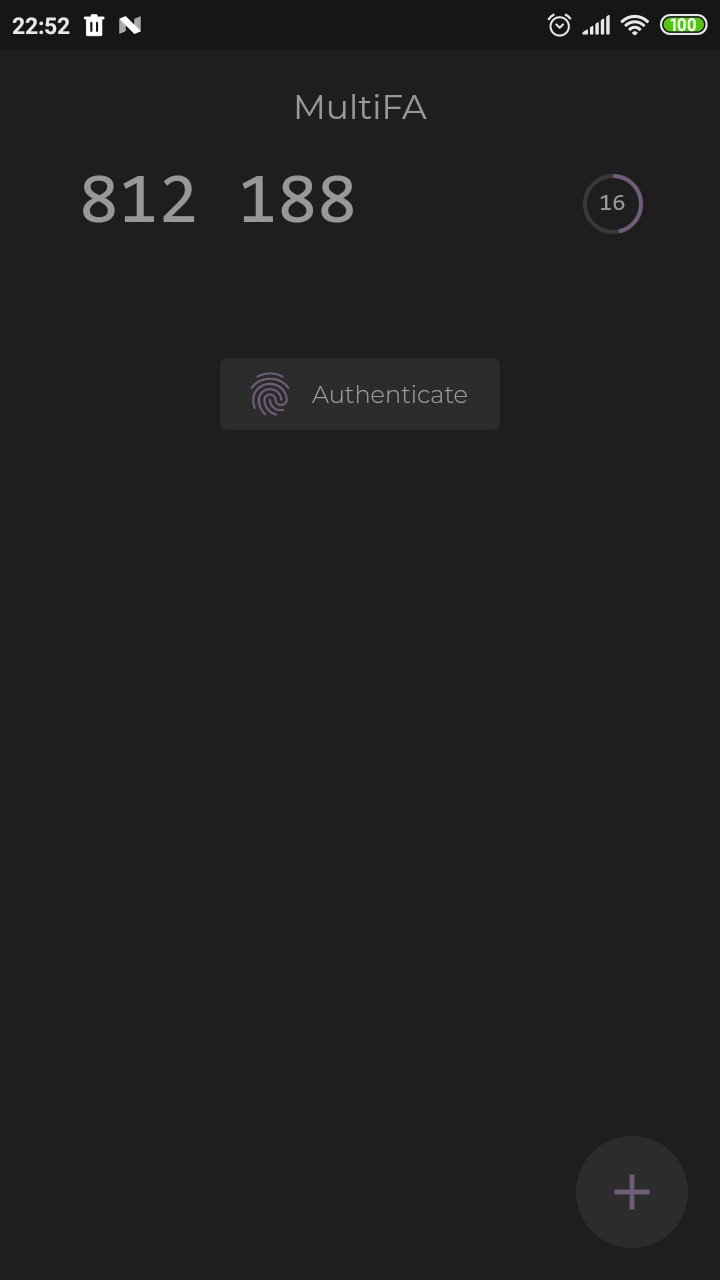
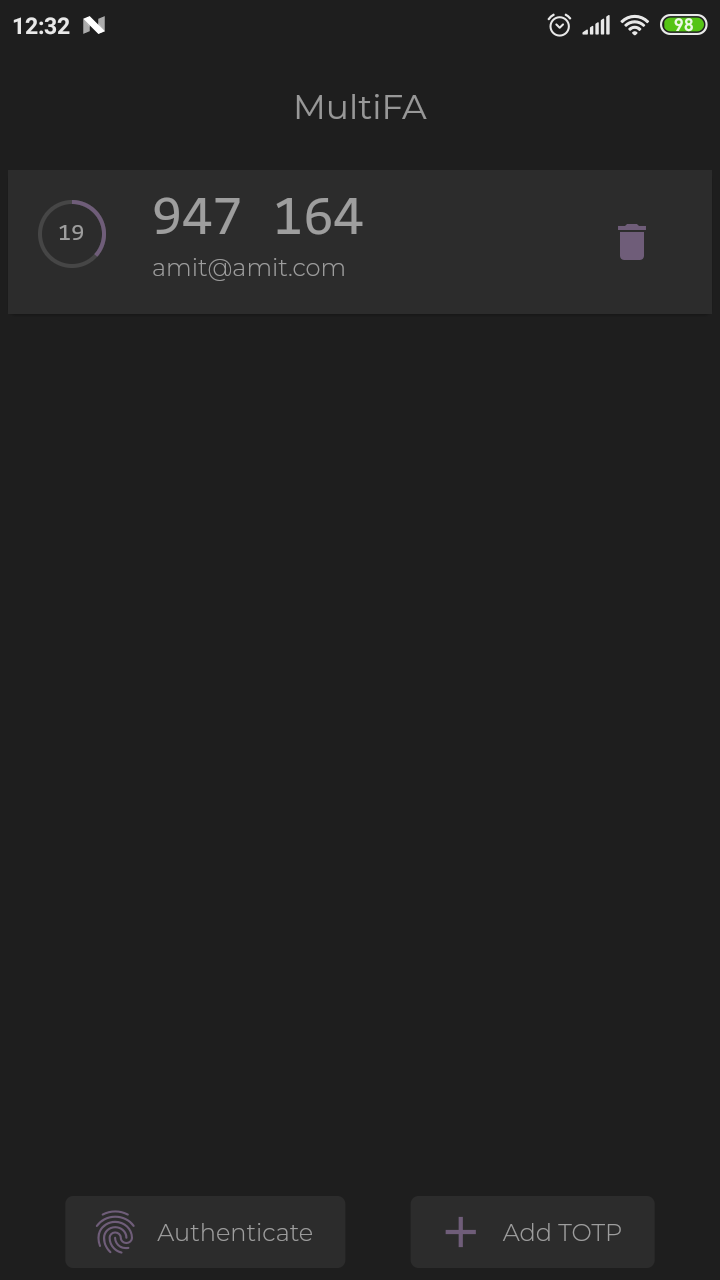
app layout changed

diff --git a/app/lib/widget/totp.dart b/app/lib/widget/totp.dart
@@ -1,0 +1,81 @@
+import 'dart:async';
+import 'package:flutter/material.dart';
+
+import 'package:app/api/totp_api.dart';
+import 'package:app/style.dart';
+
+class TotpWidget extends StatefulWidget 
+{
+	const TotpWidget({ Key? key }) : super(key: key);
+
+	@override
+	_TotpWidgetState createState() => _TotpWidgetState();
+}
+
+class _TotpWidgetState extends State<TotpWidget> 
+{
+	// TODO: stop timer when not needed and initialize timer and totp and stuff when needed
+	Timer? timer;
+	int unixTime = 0;
+	String? totp;
+	int? timeRemaining;
+
+	_TotpWidgetState()
+		:super()
+	{
+		unixTime      = DateTime.now().millisecondsSinceEpoch ~/ 1000;
+		totp          = TOTP.generateTOTP(unixTime);
+		timeRemaining = 30 - (unixTime % 30);
+	}
+
+	@override
+	Widget build(BuildContext context) 
+	{
+		timer = Timer.periodic(const Duration(seconds: 1), (_)
+		{
+			setState(()
+			{
+				unixTime = DateTime.now().millisecondsSinceEpoch ~/ 1000;
+				if ((unixTime % 30) == 0)
+				{
+					totp = TOTP.generateTOTP(unixTime);
+				}
+				timeRemaining = 30 - (unixTime % 30);
+			});
+		});
+
+		return Card(
+			child: ListTile(
+				title   : Text(totp!.substring(0, 3) + ' ' + totp!.substring(3), style: Theme.of(context).textTheme.headline2), 
+				subtitle: Text("amit@amit.com", style: Theme.of(context).textTheme.bodyText1,),
+				leading : SizedBox(
+					width  : 32,
+					height : 32,
+					child  : Stack(
+						fit  : StackFit.expand,
+						children: [
+							Center(child: Text('$timeRemaining', style: Theme.of(context).textTheme.bodyText2)),
+							CircularProgressIndicator(
+								value          : 1 - (timeRemaining! / 30),
+								backgroundColor: Colors.white12,
+								color          : appColor,
+								strokeWidth    : 2,
+							)
+						],
+					),
+				),
+				trailing: IconButton(
+					icon     : const Icon(Icons.delete, color: appColor),
+					tooltip  : 'Delete this TOTP.',
+					onPressed: () {},
+				),
+				tileColor: buttonColor,
+			)
+		);
+	}
+	
+	void stopTimer()
+	{
+		setState(() => timer?.cancel());
+	}
+}

diff --git a/app/lib/style.dart b/app/lib/style.dart
@@ -49,9 +49,9 @@ const MaterialColor buttonColor = MaterialColor(0xFF2C2C2C, _buttonColor); // li
 
 
 // Fonts
-const double largeTextStyle  = 42.0;
-const double mediumTextStyle = 20.0;
-const double bodyTextStyle   = 14.0;
+const double largeTextSize  = 32.0;
+const double mediumTextSize = 20.0;
+const double bodyTextSize   = 14.0;
 
 const String defaultFont = 'Montserrat';
 const String consolas    = 'Consolas';
@@ -59,34 +59,34 @@ const String consolas    = 'Consolas';
 const appBarTextStyle = TextStyle(
 	fontFamily: defaultFont,
 	fontWeight: FontWeight.w400,
-	fontSize  : mediumTextStyle,
+	fontSize  : mediumTextSize,
 	color     : textColor,
 );
 
 const titleTextStyle = TextStyle(
 	fontFamily: defaultFont,
 	fontWeight: FontWeight.w500,
-	fontSize  : largeTextStyle,
+	fontSize  : largeTextSize,
 	color     : textColor,
 );
 
 const bodyText1Style = TextStyle(
 	fontFamily: defaultFont,
 	fontWeight: FontWeight.w200,
-	fontSize  : bodyTextStyle,
+	fontSize  : bodyTextSize,
 	color     : textColor,
 );
 
 const telText1Style = TextStyle(
 	fontFamily: consolas,
 	fontWeight: FontWeight.w400,
-	fontSize  : largeTextStyle,
+	fontSize  : largeTextSize,
 	color     : textColor,
 );
 
 const telText2Style = TextStyle(
 	fontFamily: consolas,
 	fontWeight: FontWeight.w200,
-	fontSize  : bodyTextStyle,
+	fontSize  : bodyTextSize,
 	color     : textColor,
 );

diff --git a/app/lib/widget/home.dart b/app/lib/widget/home.dart
@@ -1,7 +1,7 @@
 import 'package:flutter/material.dart';
 
 import 'totp.dart';
-import 'scan_qr.dart';
+import 'scanqr.dart';
 import 'fingerprint.dart';
 
 class HomePage extends StatefulWidget 
@@ -20,17 +20,22 @@ class _HomePageState extends State<HomePage>
 	{
 		return Scaffold(
 			appBar: AppBar(title: Text(widget.title), centerTitle: true, elevation: 0),
-			body: Center(
+			body  : Center(
 				child: Column(
 					mainAxisAlignment: MainAxisAlignment.start,
 					children: const <Widget>[
-						TotpPage(),
-						SizedBox(height: 50),
-						FingerprintPage(),
+						TotpWidget(),
 					],
 				),
 			),
-			floatingActionButton: const ScanQRPage(), // Currently the QR code scanner doesnt do anything
+			//floatingActionButton: const ScanQRPage(), // Currently the QR code scanner doesnt do anything
+			bottomNavigationBar: Row(
+				mainAxisAlignment: MainAxisAlignment.spaceEvenly,
+				children: const <Widget> [ 
+					FingerprintWidget(), 
+					ScanQRPage()
+				]
+			),
 		);
 	}
 }

diff --git a/app/lib/main.dart b/app/lib/main.dart
@@ -1,7 +1,7 @@
 import 'package:flutter/material.dart';
 
 import 'package:app/style.dart';
-import 'package:app/pages/home.dart';
+import 'package:app/widget/home.dart';
 
 void main() => runApp(const App());
 
@@ -17,7 +17,7 @@ class App extends StatelessWidget
 			home: const HomePage(title: appTitle),
 			theme: ThemeData(
 				primarySwatch: appBgColor,
-				appBarTheme: const AppBarTheme(titleTextStyle: appBarTextStyle),
+				appBarTheme  : const AppBarTheme(titleTextStyle: appBarTextStyle),
 				scaffoldBackgroundColor: appBgColor,
 				textTheme: const TextTheme(
 					headline1: titleTextStyle,
@@ -25,7 +25,7 @@ class App extends StatelessWidget
 					headline2: telText1Style,
 					bodyText2: telText2Style,
 				)
-			), 
+			),
 		);
 	}
 }

diff --git a/app/lib/widget/fingerprint.dart b/app/lib/widget/fingerprint.dart
@@ -4,18 +4,18 @@ import 'package:app/api/local_auth_api.dart';
 import 'package:app/style.dart';
 
 
-class FingerprintPage extends StatelessWidget
+class FingerprintWidget extends StatelessWidget
 {
-	const FingerprintPage({Key? key}) : super(key: key);
+	const FingerprintWidget({Key? key}) : super(key: key);
 
 	@override
 	Widget build(BuildContext context)
 	{
 		return ElevatedButton.icon(
-			icon: const Icon(Icons.fingerprint, size: 26, color: appColor),
+			icon : const Icon(Icons.fingerprint, size: 26, color: appColor),
 			label: Text('Authenticate', style: Theme.of(context).textTheme.bodyText1),
 			style: ElevatedButton.styleFrom(
-				primary: buttonColor,
+				primary  : buttonColor,
 				elevation: 0,
 			),
 			onPressed: () async

diff --git a/app/lib/widget/scanqr.dart b/app/lib/widget/scanqr.dart
@@ -19,13 +19,14 @@ class _ScanQRPageState extends State<ScanQRPage>
 	@override
 	Widget build(BuildContext context)
 	{
-		return FloatingActionButton(
+		return ElevatedButton.icon(
+			icon : const Icon(Icons.add, size: 26, color: appColor),
+			label: Text('Add TOTP', style: Theme.of(context).textTheme.bodyText1),
+			style: ElevatedButton.styleFrom(
+				primary  : buttonColor,
+				elevation: 0,
+			),
 			onPressed: scanQR,
-			tooltip  : 'Scan QR code',
-			child    : const Icon(Icons.add, size: 30),
-			backgroundColor: buttonColor,
-			foregroundColor: appColor,
-			elevation: 0,
 		);
 	}
 
